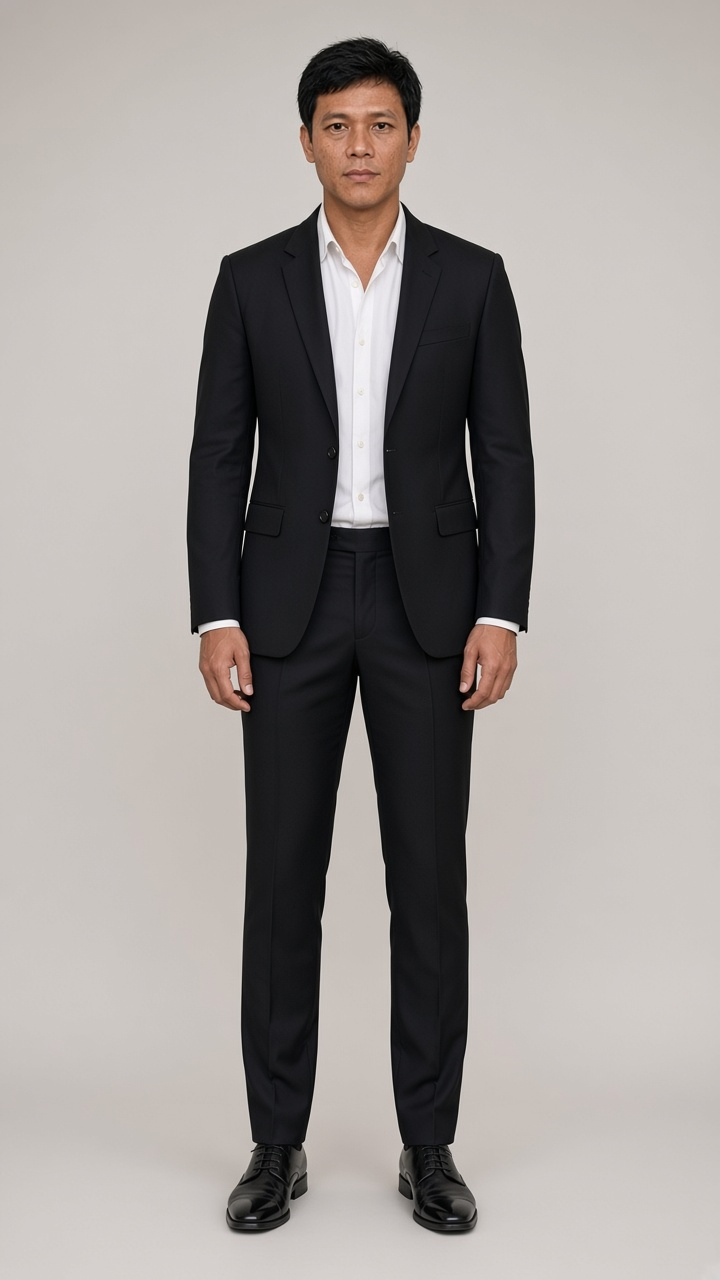
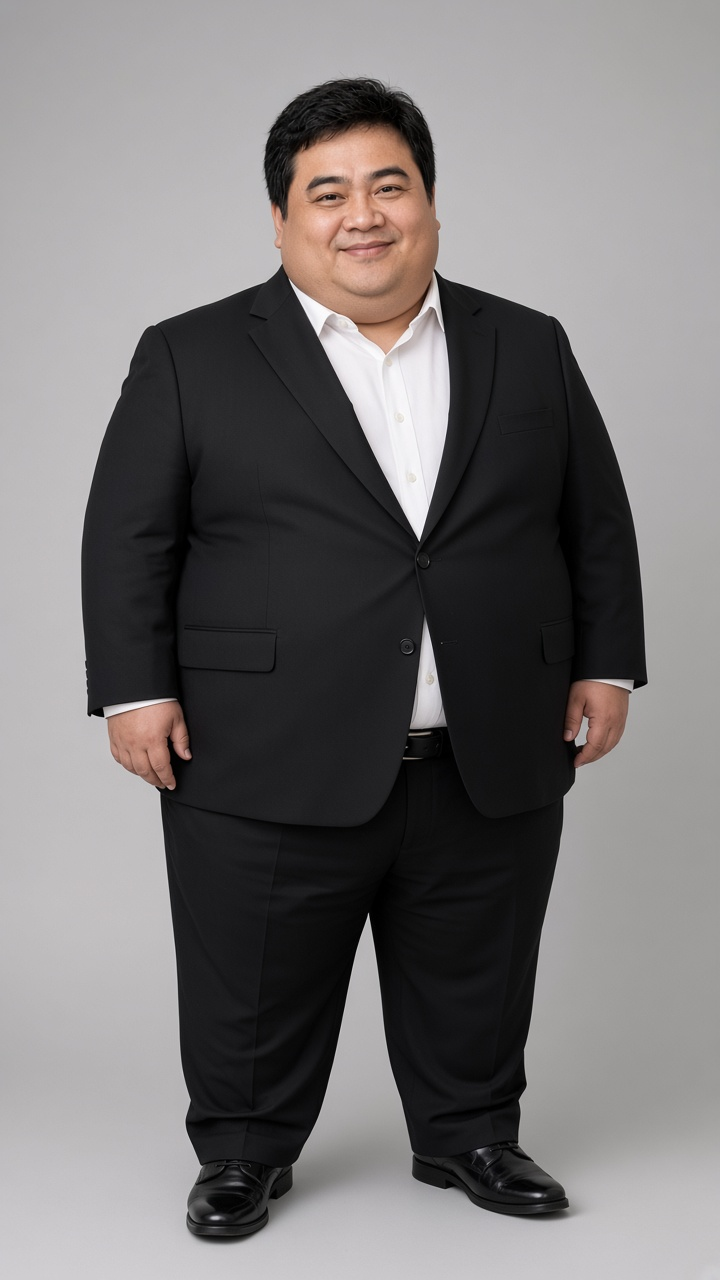
Recast Hào as the comedy line: heavy, 160 cm, police at the end.
Replace the lean driver sheet with the short heavy body, and stage his existing backstage arrest as the fight where the joke stops.

diff --git a/kich-ban/vuong-mien-mau-hanh-dong-hai.md b/kich-ban/vuong-mien-mau-hanh-dong-hai.md
@@ -64,9 +64,48 @@ Cô trong team ông Minh mở ghế xếp. Ghế cắn một cái vào ngón ôn
 
 ## 45 và cửa sân, trước cảnh 47
 
-Đặt vào lúc Hào giơ điện thoại ngang, trước khi James bước ra cổng.
+Đặt vào lúc Hào giơ điện thoại ngang, trước khi James bước ra cổng. Thân hình là khóa mới: mập, cao 1,6 m.
 
-Hào thắng một ván. Anh giơ điện thoại. Máy trượt khỏi tay. Anh kẹp máy vào ngực bằng hai bàn tay, thở ra một cái. Cửa sân mở. Điện thoại đã ở trong túi. Hai tay buông dọc thân. Anh là tài xế.
+Hào thắng một ván. Anh giơ điện thoại. Máy trượt, kẹt vào khe giữa bụng và vô-lăng trong trí nhớ tay anh. Anh kẹp máy vào bụng bằng cả hai cẳng tay, thở ra một cái. Cửa sân mở. Điện thoại đã ở trong túi. Hai tay buông. Anh là tài xế.
+
+---
+
+# Tuyến hài — Hào
+
+Một tuyến. Hào 33 tuổi, mập, cao 1,6 m, cười dễ. James thấy một tài xế vụng. Đêm chung kết, cùng thân hình đó khống chế James. Danh tính công an là điểm cuối, đã có ở cảnh 96 và cảnh 101.
+
+Kịch bản gốc ghi “nghiêm nghị”. Khóa này đổi dáng và nhịp hài. Không đổi tội danh, không đổi câu “anh Bùi Văn Mót”.
+
+## 10 · Sân khách sạn
+
+Hào bước xuống trước, người ngắn, bụng làm hàng nút vest căng nhẹ. Anh mở cửa. James bước ra. Quân giơ máy. Hào chắn khung bằng cả tấm lưng. Nắp ống kính đập gọng kính Quân. Hào không nhích, miệng vẫn một nụ cười nhỏ như đang xin lỗi đường.
+
+## 45 · Ngoài sân pickleball
+
+Anh chơi game, thắng, điện thoại trượt, kẹp vào bụng. James ra tới cổng thì nụ cười đã cất. Chỉ còn tài xế.
+
+## Nghe lén cửa phòng James
+
+Anh áp tai vào cửa. Vest ngắn, bụng chạm cửa một cái khe khẽ. Anh kéo áo xuống, suýt mất một câu. Anh nghe lại từ đầu, miệng mím, mắt vẫn vui.
+
+## 96 · NỘI. BACKSTAGE - ĐÊM — trận đánh
+
+Đây là cảnh hành động của tuyến. James lảo đảo, gọi “Hào! Mau đưa tao ra xe.” Đưa tay tới.
+
+Hào chụp cổ tay. Bụng anh thúc James vào tường trước khi James hiểu. Còng vào một tay.
+
+James vùng ra, thủ thế boxing, đấm. Cú đấm đi qua vai Hào vì Hào thấp. Hào né vào trong, một cú đá thấp. James té sấp. Hào đè, hơi thở nặng, kéo quần lên một cái, rồi mới tra còng vào tay còn lại.
+
+Nụ cười hết từ câu này:
+
+HÀO
+Anh bị bắt vì tội cố ý giết người và lừa đảo chiếm đoạt tài sản. Bây giờ thì anh có thêm tội chống người thi hành công vụ đó, anh Bùi Văn Mót.
+
+Trận boxing của James với đối thủ ở phòng tập, và trận James với Quân trong kho, giữ nguyên. Hai trận đó không phải trận của Hào.
+
+## 101 · Bãi đất
+
+Hào trong trang phục cảnh sát. Cùng khuôn mặt, cùng người mập cao 1,6 m. Không còn nụ cười. Cảnh vật chứng giữ nguyên Draft 10.
 
 ## 75 · NỘI. SÂN KHẤU REHEARSAL - NGÀY
 
